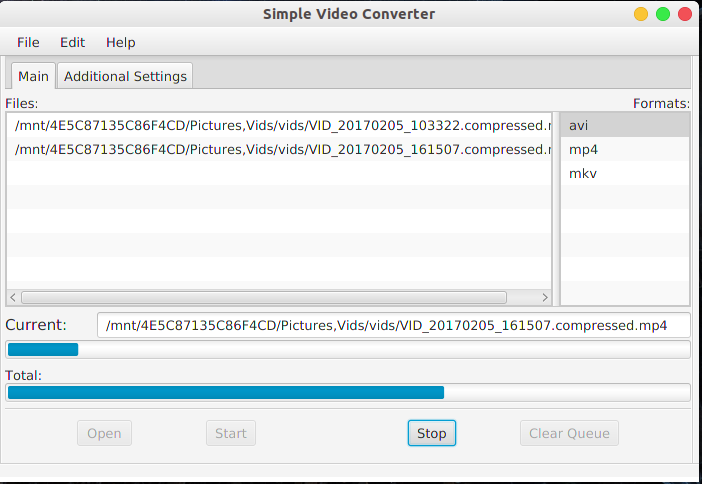
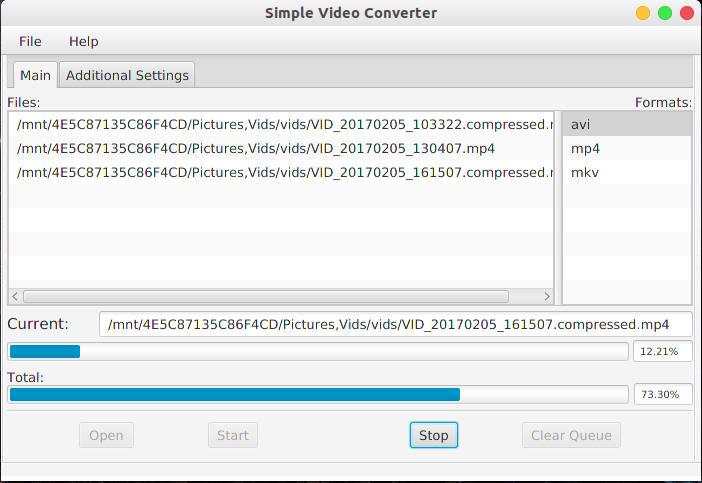
Added Dialoge comfirmation on stop clicked

Changed region(s): [[0.0, 0.0, 1.0, 1.0], [0.359, 0.0, 0.6282, 0.0621]]

diff --git a/src/Controller.java b/src/Controller.java
@@ -19,6 +19,7 @@ import java.io.File;
 import java.net.URL;
 import java.util.ArrayList;
 import java.util.List;
+import java.util.Optional;
 import java.util.ResourceBundle;
 
 public class Controller implements Initializable
@@ -193,17 +194,30 @@ public class Controller implements Initializable
     @FXML
     public void stop(ActionEvent event)
     {
-        ui.flag = 0;
-        op.interrupt();
-        textCurrentFile.setText("Interrupted by User!");
-        Stop.setDisable(true);
-        Open.setDisable(false);
-        Start.setDisable(false);
-        Clear.setDisable(false);
-        progBarCurrent.setProgress(0.0);
-        progBarTotal.setProgress(0.0);
-        CurrentPercent.setText("0.0%");
-        TotalPercent.setText("0.0%");
+
+        Alert alert =new Alert(Alert.AlertType.CONFIRMATION);
+        alert.setTitle("Alert");
+        alert.setContentText("Do you really want to Stop?");
+        Optional<ButtonType> result =alert.showAndWait();
+        if(result.get() == ButtonType.OK)
+        {
+            ui.flag = 0;
+            op.interrupt();
+
+            textCurrentFile.setText("Interrupted by User!");
+            Stop.setDisable(true);
+            Open.setDisable(false);
+            Start.setDisable(false);
+            Clear.setDisable(false);
+            progBarCurrent.setProgress(0.0);
+            progBarTotal.setProgress(0.0);
+            CurrentPercent.setText("0.0%");
+            TotalPercent.setText("0.0%");
+        }
+        else
+            return;
+
+
     }
 
     @FXML

diff --git a/src/Main.java b/src/Main.java
@@ -2,7 +2,12 @@ import javafx.application.Application;
 import javafx.fxml.FXMLLoader;
 import javafx.scene.Parent;
 import javafx.scene.Scene;
+import javafx.scene.control.Alert;
+import javafx.scene.control.Button;
+import javafx.scene.control.ButtonType;
 import javafx.stage.Stage;
+
+import java.util.Optional;
 
 public class Main extends Application
 {
@@ -15,15 +20,22 @@ public class Main extends Application
         primaryStage.setScene(new Scene(root, 700, 450));
         primaryStage.setMinHeight(455);
         primaryStage.setMinWidth(700);
+
+        primaryStage.setOnCloseRequest(event ->
+        {
+            stop_app();
+        });
+
         primaryStage.show();
     }
 
-    @Override
-    public void stop()
+
+    public void stop_app()
     {
         System.out.println("Stop");
         ConvertOp.process.destroy();
         System.exit(0);
+
     }
 
 
